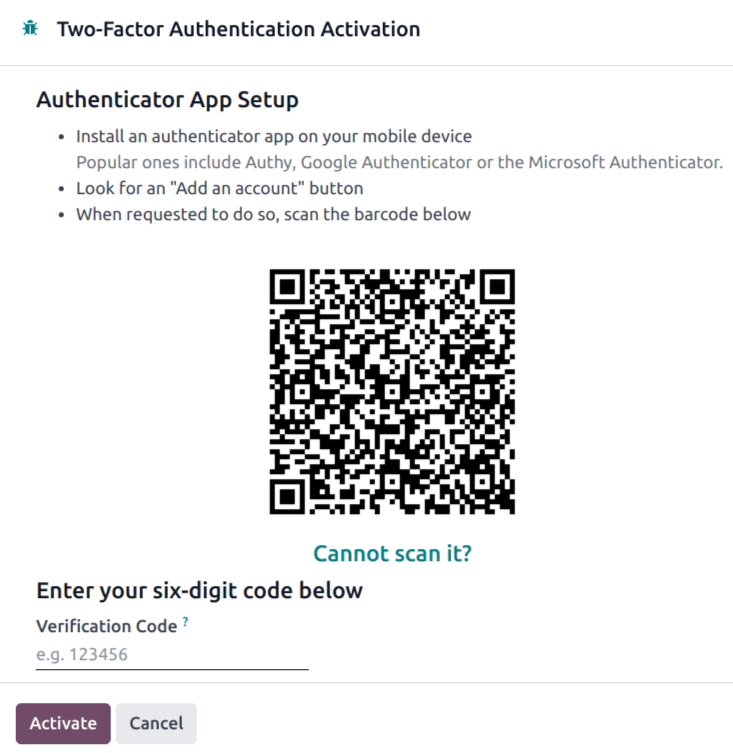
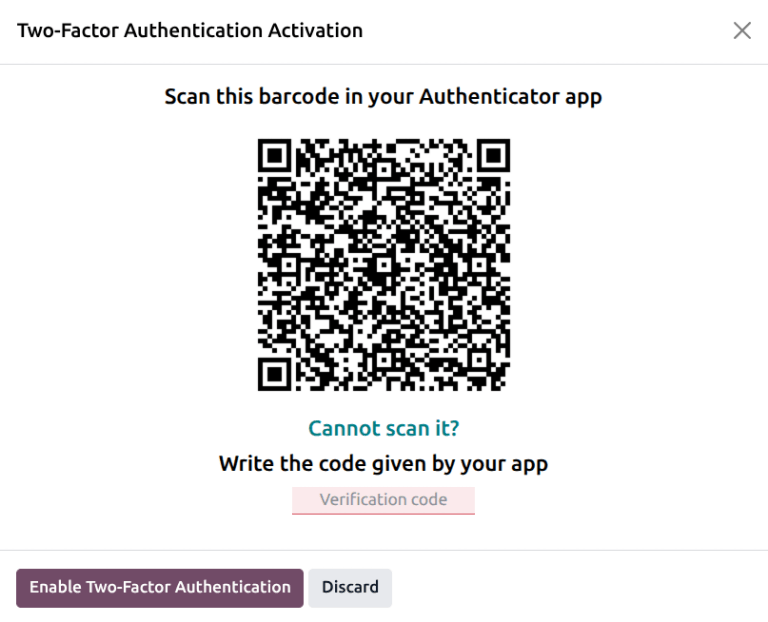
[IMP] General: 2fa updates
closes odoo/documentation#19845

X-original-commit: 208fea2c3a0c309b8b631aab4b186cd0bbda6f53

Changed region(s): [[0.0, 0.1222, 0.9905, 1.0], [0.03, 0.0305, 0.5703, 0.0611], [0.9604, 0.0305, 0.9905, 0.0611]]

diff --git a/content/applications/general/users/2fa.rst b/content/applications/general/users/2fa.rst
@@ -49,22 +49,21 @@ Two-factor authentication setup
 ===============================
 
 After selecting an authenticator, log in to Odoo, then click the profile avatar in the upper-right
-corner, and select :guilabel:`My Profile` from the resulting drop-down menu.
+corner, and select :guilabel:`My Preferences` from the resulting drop-down menu.
 
-Click the :guilabel:`Account Security` tab, then slide the :guilabel:`Two-Factor Authentication`
-toggle to *active*.
+Click the *Security* tab, then click :guilabel:`Enable 2FA`.
 
 .. image:: 2fa/account-security.png
    :alt: The account secuirty tab in a user profile.
 
-This generates a :guilabel:`Security Control` pop-up window that requires password confirmation to
-continue. Enter the appropriate password, then click :guilabel:`Confirm Password`. Next, a
-:guilabel:`Two-Factor Authentication Activation` pop-up window appears, with a |QR|.
+This generates an *Access Control* pop-up window that requires password confirmation to continue.
+Enter the Odoo account password, then click :guilabel:`Confirm Password`. Next, a *Two-Factor
+Authentication Activation* pop-up window appears, with a |QR|.
 
 .. figure:: 2fa/qr-code.png
    :alt: The 2fa authentication QR code in Odoo.
 
-   Using the desired authenticator application, scan the |QR| when prompted.
+   Using the desired authenticator application, scan the |QR| code.
 
 .. tip::
    If scanning the screen is not possible (e.g., the setup is being completed on the *same* device
@@ -79,7 +78,8 @@ Afterwards, the authenticator should display a *verification code*.
 .. image:: 2fa/authenticator.png
    :alt: A view of the Google authenticator app with the six digit code for 2fa.
 
-Enter the code into the :guilabel:`Verification Code` field, then click :guilabel:`Activate`.
+Enter the code into the :guilabel:`Verification code` field, then click :guilabel:`Enable Two-Factor
+Authentication`.
 
 .. image:: 2fa/2fa-enabled.png
    :alt: The success message that appears in a user profile when 2fa is successfully enabled.
